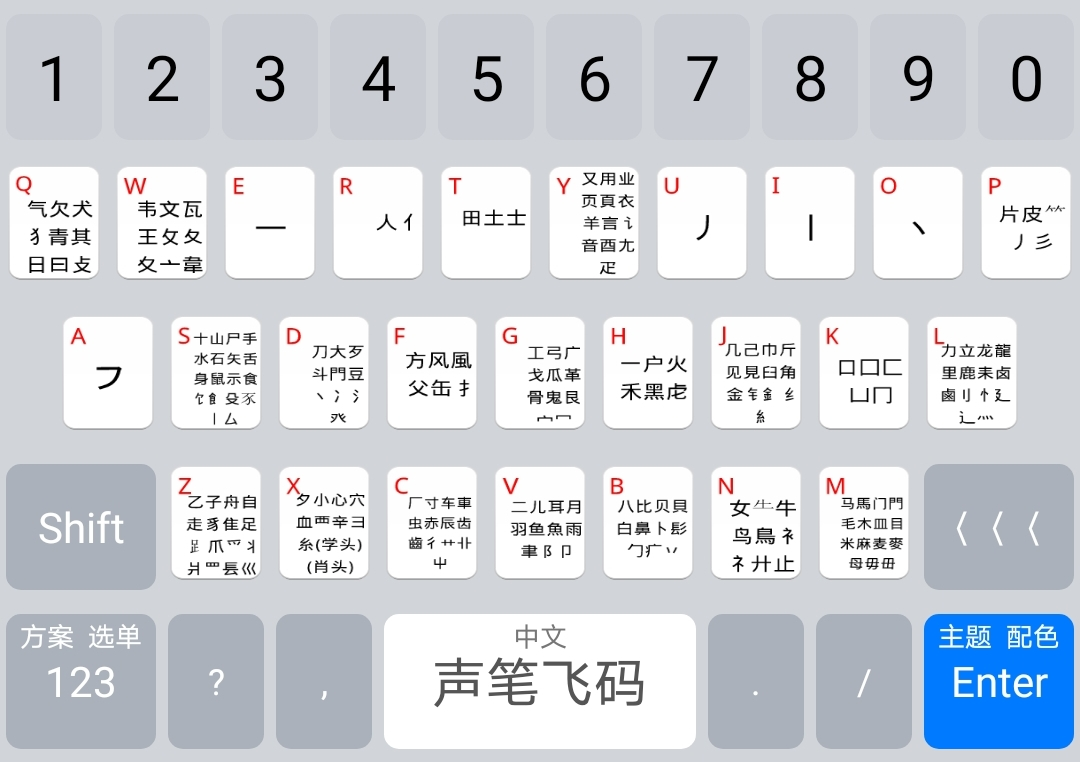
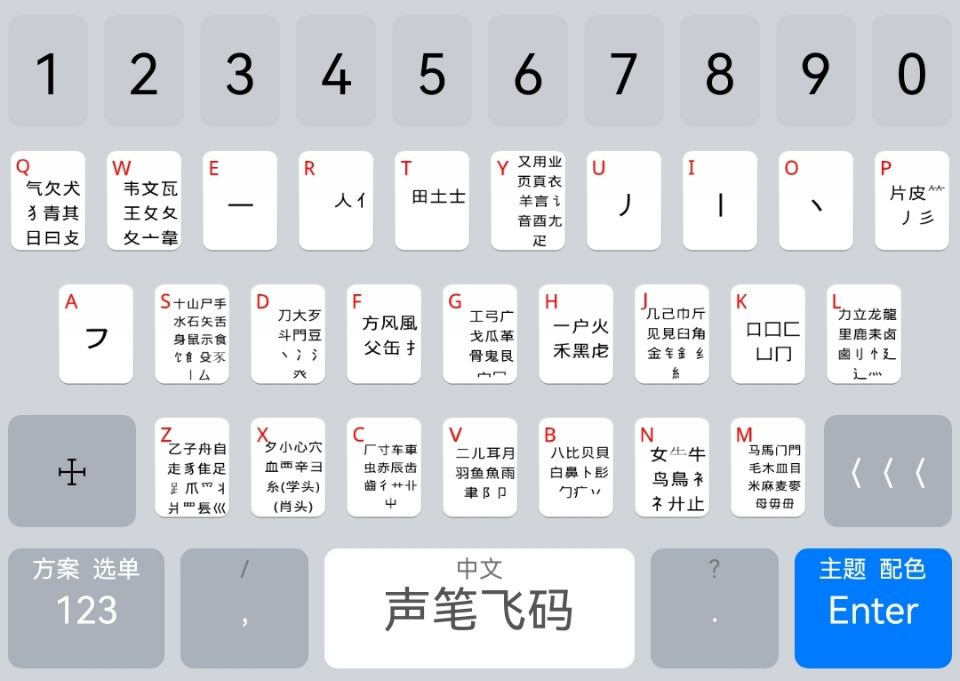
Site updated: 2021-11-20 07:57:58

diff --git a/sbpy/index.html b/sbpy/index.html
@@ -121,14 +121,21 @@ var _hmt = _hmt || [];
 
 
 
-  <meta name="description" content="声笔拼音是一种非常「奇特」的拼音输入法，它完全颠覆了人们对拼音输入法的认识，平均码长被腰斩，重码大幅度减少，翻页键很少用得着，输入效率大大提升。声笔拼音将彻底改变人们对拼音输入时重码多、效率低的刻板印象，是最佳的拼音输入法升级方案。 通常，为了在使用拼音的情况下提升输入效率，人们首先想到的可能就是采用双拼。但是，双拼的门槛还是不低，需要记住30来个韵母、3个翘舌声母和零声母的表示形式，而且仍然不能">
+  <meta name="description" content="声笔拼音是一种非常「奇特」的拼音输入法，它完全颠覆了人们对拼音输入法的认识，平均码长被腰斩，重码大幅度减少，翻页键很少用得着，输入效率大大提升。 通常，为了在使用拼音的情况下提升输入效率，人们首先想到的可能就是采用双拼。但是，双拼的门槛还是不低，需要记住30来个韵母、3个翘舌声母和零声母的表示形式，而且仍然不能解决重码多的问题。 声笔拼音另辟蹊径，以全拼为基础，进行适当的变形，只需花费比双拼小得多">
 <meta name="keywords" content="输入法, 创新, 引领, 顶屏, 顶功, 自动码长, 自动造词, 字母选重">
 <meta property="og:type" content="website">
 <meta property="og:title" content="声笔拼音">
 <meta property="og:url" content="http://sbxlm.gitee.io/sbpy/index.html">
 <meta property="og:site_name" content="声笔输入法">
-<meta property="og:description" content="声笔拼音是一种非常「奇特」的拼音输入法，它完全颠覆了人们对拼音输入法的认识，平均码长被腰斩，重码大幅度减少，翻页键很少用得着，输入效率大大提升。声笔拼音将彻底改变人们对拼音输入时重码多、效率低的刻板印象，是最佳的拼音输入法升级方案。 通常，为了在使用拼音的情况下提升输入效率，人们首先想到的可能就是采用双拼。但是，双拼的门槛还是不低，需要记住30来个韵母、3个翘舌声母和零声母的表示形式，而且仍然不能">
+<meta property="og:description" content="声笔拼音是一种非常「奇特」的拼音输入法，它完全颠覆了人们对拼音输入法的认识，平均码长被腰斩，重码大幅度减少，翻页键很少用得着，输入效率大大提升。 通常，为了在使用拼音的情况下提升输入效率，人们首先想到的可能就是采用双拼。但是，双拼的门槛还是不低，需要记住30来个韵母、3个翘舌声母和零声母的表示形式，而且仍然不能解决重码多的问题。 声笔拼音另辟蹊径，以全拼为基础，进行适当的变形，只需花费比双拼小得多">
 <meta property="og:locale" content="zh-CN">
+<meta property="og:image" content="http://sbxlm.gitee.io/images/sbpyfc.png">
+<meta property="og:image" content="http://sbxlm.gitee.io/images/sbpyzhlf.png">
+<meta property="og:image" content="http://sbxlm.gitee.io/images/sbpyzj.jpg">
+<meta property="og:image" content="http://sbxlm.gitee.io/images/image-20211120064658859.png">
+<meta property="og:image" content="http://sbxlm.gitee.io/images/image-20211120065358587.png">
+<meta property="og:image" content="http://sbxlm.gitee.io/images/image-20211120071430095.png">
+<meta property="og:image" content="http://sbxlm.gitee.io/images/image-20211120071538558.png">
 <meta property="og:image" content="http://sbxlm.gitee.io/images/sougoulizi7.png">
 <meta property="og:image" content="http://sbxlm.gitee.io/images/sougoulizi8.png">
 <meta property="og:image" content="http://sbxlm.gitee.io/images/sbpylizi1.png">
@@ -141,11 +148,11 @@ var _hmt = _hmt || [];
 <meta property="og:image" content="http://sbxlm.gitee.io/images/sbpylizi7.png">
 <meta property="og:image" content="http://sbxlm.gitee.io/images/sbpylizi8.png">
 <meta property="og:image" content="http://sbxlm.gitee.io/images/dphx.png">
-<meta property="og:updated_time" content="2021-11-14T03:53:14.048Z">
+<meta property="og:updated_time" content="2021-11-19T23:25:24.250Z">
 <meta name="twitter:card" content="summary">
 <meta name="twitter:title" content="声笔拼音">
-<meta name="twitter:description" content="声笔拼音是一种非常「奇特」的拼音输入法，它完全颠覆了人们对拼音输入法的认识，平均码长被腰斩，重码大幅度减少，翻页键很少用得着，输入效率大大提升。声笔拼音将彻底改变人们对拼音输入时重码多、效率低的刻板印象，是最佳的拼音输入法升级方案。 通常，为了在使用拼音的情况下提升输入效率，人们首先想到的可能就是采用双拼。但是，双拼的门槛还是不低，需要记住30来个韵母、3个翘舌声母和零声母的表示形式，而且仍然不能">
-<meta name="twitter:image" content="http://sbxlm.gitee.io/images/sougoulizi7.png">
+<meta name="twitter:description" content="声笔拼音是一种非常「奇特」的拼音输入法，它完全颠覆了人们对拼音输入法的认识，平均码长被腰斩，重码大幅度减少，翻页键很少用得着，输入效率大大提升。 通常，为了在使用拼音的情况下提升输入效率，人们首先想到的可能就是采用双拼。但是，双拼的门槛还是不低，需要记住30来个韵母、3个翘舌声母和零声母的表示形式，而且仍然不能解决重码多的问题。 声笔拼音另辟蹊径，以全拼为基础，进行适当的变形，只需花费比双拼小得多">
+<meta name="twitter:image" content="http://sbxlm.gitee.io/images/sbpyfc.png">
 
 
 
@@ -682,20 +689,22 @@ var _hmt = _hmt || [];
       <div class="post-body">
         
         
-          <p>声笔拼音是一种非常「奇特」的拼音输入法，它完全颠覆了人们对拼音输入法的认识，平均码长被腰斩，重码大幅度减少，翻页键很少用得着，输入效率大大提升。声笔拼音将彻底改变人们对拼音输入时重码多、效率低的刻板印象，是最佳的拼音输入法升级方案。</p>
+          <p>声笔拼音是一种非常「奇特」的拼音输入法，它完全颠覆了人们对拼音输入法的认识，平均码长被腰斩，重码大幅度减少，翻页键很少用得着，输入效率大大提升。</p>
 <p>通常，为了在使用拼音的情况下提升输入效率，人们首先想到的可能就是采用双拼。但是，双拼的门槛还是不低，需要记住30来个韵母、3个翘舌声母和零声母的表示形式，而且仍然不能解决重码多的问题。</p>
 <p>声笔拼音另辟蹊径，以全拼为基础，进行适当的变形，只需花费比双拼小得多的代价，就可以取得相当于或者高于双拼的输入效率。</p>
 <p>声笔拼音提供了两种解决方案。一种是默认的方案，它与现有的拼音输入法非常类似，都采用了智能整句模式，过渡起来很容易。另一种是，进一步演变而产生的字词型方案——声笔顶拼，它以稍高的门槛换来了更高的输入效率。</p>
 <p>值得注意的是，声笔拼音一词有广义和狭义之分。狭义的声笔拼音特指整句型方案，而广义的声笔拼音包括了整句型和字词型两种方案。读者从上下文应该容易区分出来，不要搞混淆了。</p>
-<p>本文只涉及声笔系列码中的声笔拼音，含声笔顶拼。有关声笔系列码的总体情况请参见<a href="../about/">总体介绍</a>。有关下载、安装和配置的方法，请参见<a href="../vzpz/">安装配置</a>。有关声笔系列码的发展历程，请参见<a href="../fzlc/">发展历程</a>。对于一些参见问题的解答，请参见<a href="../faq/">常见问题</a>。声笔系列码的其它输入方案详见各自的专题。</p>
+<p>声笔拼音适合什么样的人使用呢？声笔拼音是对现有拼音输入法的优化和改进，所以它适用于正在用拼音输入中文的所有人，可以仅花费极小的代价就获得高得多的中文输入效率，而不必花更多的时间和精力去学习双拼甚至五笔等。声笔拼音将彻底改变人们对拼音输入时重码多、效率低的刻板印象，是最佳的拼音输入法升级方案。</p>
+<p>如果您的拼音非常糟糕，对韵母的掌握一塌糊涂，声母也分不清平翘舌什么的，同时又想有一个简单高效的输入方案，那么强烈建议您使用声笔系列码中的<a href="../sbjm/">声笔简码</a>，它仅使用不分平翘舌的声母和五个笔画，就能取得比声笔拼音还高的输入效率。</p>
+<p>本文只涉及声笔系列码中的声笔拼音，含声笔顶拼。有关声笔系列码的总体情况请参见<a href="../about/">总体介绍</a>。有关下载、安装和配置的方法，请参见<a href="../vzpz/">安装配置</a>。有关声笔系列码的发展历程，请参见<a href="../fzlc/">发展历程</a>。对于一些常见问题的解答，请参见<a href="../faq/">常见问题</a>。声笔系列码的其它输入方案详见各自的专题。</p>
 <h2 id="1-预备知识"><a href="#1-预备知识" class="headerlink" title="1 预备知识"></a>1 预备知识</h2><p>本节介绍声笔拼音所使用的编码元素，即用汉字的什么要素来编码；编码的方法是什么；在不知道编码的时候怎么样快速反查出编码；编码在实际输入的时候是怎么运用的。</p>
 <h3 id="1-1-编码元素"><a href="#1-1-编码元素" class="headerlink" title="1.1 编码元素"></a>1.1 编码元素</h3><p>声笔拼音的编码元素为声母、韵母和笔画，具体表示方法与现行拼音输入法有一定的差异，请注意以下几点。</p>
 <ul>
 <li>用v表示零声母，即作为以a e o开头的音节在形式上的声母。例如，ai ei ou就变成了vai vei vou。</li>
 <li>不区分平、翘舌音，即省略zh ch sh中的h。例如，zhou chao shi就变成了zou cao si。</li>
 <li>前后鼻音中的n和ng都通过重复之前的元音字母来编码。例如，wan yin bang zong就变成了waa yii baa zoo。</li>
-<li>将韵母 er 合并到 e，ü 合并到 u，ê 合并到 e。例如，er 变成 ve，而 nü 变成 nu。特别注意，ü 没有像传统拼音输入法那样用 v 来代替。</li>
-<li>在声韵相拼的时候，声母 j、q、x 后接韵母 ia、ie、iao、ian、iang、iong 时，要省略 i。例如，传统拼音里的 jie qiong xiang 在声笔拼音里则变成 je qoo xaa。</li>
+<li>将韵母 er 合并到 e，ü 合并到 u，ê 合并到 e。例如，er 变成 ve，nü 变成 nu，而ê变成ve。特别注意，ü 没有像传统拼音输入法那样用 v 来代替。</li>
+<li>在声韵相拼的时候，声母 j、q、x 后接以ia、ie、io开头的韵母如 ia、ie、iao、ian、iang、iong 时，要省略 i。例如，传统拼音里的 jie qiong xiang 在声笔拼音里则变成 je qoo xaa。</li>
 <li>音节长度超过3时，则截断为3。例如，biao变成bia，而guan变成gua。</li>
 <li>在笔画方面，同其它声笔方案一样，横竖撇捺折五个笔画用eiuoa来表示，而不是传统上的12345或者hspnz。</li>
 </ul>
@@ -705,16 +714,49 @@ var _hmt = _hmt || [];
 <li>降低了学习门槛，不再需区分平翘舌和前后鼻音。虽然现有拼音输入法也可以设置模糊音，但是会影响汉字转换的准确性，而在声笔拼音中不会有这个问题。</li>
 <li>拼写形式得到了缩短。例如，zhuang变成了zua，miao变成了mia。这种对音节形式的压缩方式虽然会产生一些归并重码，但是声笔拼音可以通过直接追加笔画的方式来进行快速筛选，所以并不会成为一个问题。</li>
 </ul>
-<h3 id="1-2-编码方法"><a href="#1-2-编码方法" class="headerlink" title="1.2 编码方法"></a>1.2 编码方法</h3><p>在声笔拼音中，单字的编码规则很简单，就是拼音加笔画，全码为6码，笔画不足时重复末笔来补足。例如，「笔」的拼音为bi，追加前4个笔画后编码为biueou。再如，「将」的音节编码为jaa，追加前三个笔画后单字的编码为jaaoei。</p>
+<h3 id="1-2-编码方法"><a href="#1-2-编码方法" class="headerlink" title="1.2 编码方法"></a>1.2 编码方法</h3><p>在声笔拼音中，单字的编码规则很简单，就是拼音加笔画，全码为6码，笔画不足时重复末笔来补足。例如，「笔」的拼音为bi，追加前4个笔画后编码为biueou。又如，「将」的音节编码为jaa，追加前三个笔画后单字的编码为jaaoei。再如，「乙」的音节编码为yi，而「乙」只有一个笔画，所以要重复三次才能形成单字编码yiaaaa。</p>
 <p>对于词组的编码来说，整句型和字词型的方案是大不相同的，会在本文的后面两节详细论述。</p>
-<h3 id="1-3-反查方法"><a href="#1-3-反查方法" class="headerlink" title="1.3 反查方法"></a>1.3 反查方法</h3><h3 id="1-4-输入方法"><a href="#1-4-输入方法" class="headerlink" title="1.4 输入方法"></a>1.4 输入方法</h3><p>声笔拼音的整句型方案和字词型方案，在输入的时候，虽然都是基于相同的单字编码，但是在具体的运用上是大不相同的，以下两节就分别进行详细论述。</p>
+<h3 id="1-3-反查方法"><a href="#1-3-反查方法" class="headerlink" title="1.3 反查方法"></a>1.3 反查方法</h3><p>在输入过程中，往往会遇到不认识的字或者不会用声笔拼音编码的字词，这时反查功能就派上大用场了。如果每当这种时候都要去百度的话，那就太耽误时间了。声笔拼音提供了多种快捷的反查手段，大大加快了查找编码的速度。</p>
+<p>在不知道读音的时候直接用<code>aeuio</code>按顺序输入笔画进行反查，在不知道笔画时用a引导拼音反查（注意零声母要用v）。以下是几个反查的例子。</p>
+<p><img src="/images/sbpyfc.png" alt="笔画拼音反查"></p>
+<p>另外，通过i引导的拼音还支持用字海两分法来进行反查， 支持查找八万多汉字，一般用于难读而易于两分的字进行反查或者GBK以外字的输入。GBK以外的字，声笔拼音不提供正常编码，不能按正常方式输入，只能在两分查找到后选择输入。下面是字海两分法查找的例子。</p>
+<p><img src="/images/sbpyzhlf.png" alt="字海两分反查"></p>
+<h3 id="1-4-助记方法"><a href="#1-4-助记方法" class="headerlink" title="1.4 助记方法"></a>1.4 助记方法</h3><p>虽然声笔拼音已经简单，基本上没有什么学习门槛，但是为了进一步减轻初学者的记忆负担，在手机上提供了助记皮肤，可以长按<code>N</code>键打开或者关闭助记。在打开时，给出了笔画和零声母用键（<code>aeuio</code>和<code>v</code>）的提示，如下图所示。如果是在电脑上，则可以把该图放在电脑桌面上，在打字的时候帮助记忆，一般几分钟就记住了。</p>
+<p><img src="/images/sbpyzj.jpg" alt="声笔拼音助记"></p>
+<h3 id="1-5-输入方法"><a href="#1-5-输入方法" class="headerlink" title="1.5 输入方法"></a>1.5 输入方法</h3><p>声笔拼音的整句型方案和字词型方案，在输入的时候，虽然都是基于相同的单字编码，但是在具体的运用上是大不相同的。读者先通过以下练习巩固一下预备知识。在接下来的两节会分别对字词型和整句型的输入方法进行详细论述，这里就不再赘述。</p>
 <blockquote>
-<p><em>预备知识习题：</em></p>
-<ol>
-<li>请给出下列汉语拼音音节在声笔拼音中的编码：</li>
-<li>请给出下列汉字在声笔拼音中的笔画表示形式：</li>
-<li>请给出下列汉字在声笔拼音中的单字编码形式：</li>
-<li>请用纯笔画反查出下列汉字在声笔拼音中编码：</li>
+<h4 id="预备知识习题："><a href="#预备知识习题：" class="headerlink" title="预备知识习题："></a><em>预备知识习题：</em></h4><ol>
+<li>请给出下列汉语拼音音节在声笔拼音中的编码<ul>
+<li>ang tin jiao qiong</li>
+<li>er lue lü kuai</li>
+<li>nu chuang qiu jiang</li>
+</ul>
+</li>
+<li>请给出下列汉字的前四笔在声笔拼音中的编码<ul>
+<li>床前明月光</li>
+<li>疑是地上霜</li>
+</ul>
+</li>
+<li>请给出下列汉字在声笔拼音中的单字编码形式<ul>
+<li>举头望明月</li>
+<li>低头思故乡</li>
+</ul>
+</li>
+<li>请用纯笔画反查出下列汉字在声笔拼音中的编码<ul>
+<li>人之初</li>
+<li>性本善</li>
+</ul>
+</li>
+<li>请用常规拼音反查下列汉字在声笔拼音中的编码<ul>
+<li>太极八卦</li>
+<li>阴阳五行</li>
+</ul>
+</li>
+<li>请用字海二分法输入下列汉字<ul>
+<li>皕𩇴</li>
+<li>𠓗𠔣</li>
+</ul>
+</li>
 </ol>
 </blockquote>
 <h2 id="2-声笔拼音"><a href="#2-声笔拼音" class="headerlink" title="2 声笔拼音"></a>2 声笔拼音</h2><p>注意，本节讲的声笔拼音是狭义的，即特指整句型的方案。</p>
@@ -726,8 +768,21 @@ var _hmt = _hmt || [];
 <li>回溯修改麻烦</li>
 </ul>
 <p>这些问题在声笔拼音中都得到了很好的解决。声笔拼音明确了音节界线，简化了拼写形式，降低了学习难度，还能能够直接用笔画筛选重码。</p>
-<p>虽然名称是智能整句，但并不是必须要以整句为单位进行输入，只是说可以以整句为单位输入而已。具有讽刺意义的是，人们在使用智能整句输入法的时候，绝大多数人都是以字词为单位输入，而不是以句子为单位输入的。为什么会发生这种奇怪的现象呢？有关这个问题，请参见<a href="!--0--">拼音输入宝典</a>一文。</p>
-<h3 id="2-1-单字的输入"><a href="#2-1-单字的输入" class="headerlink" title="2.1 单字的输入"></a>2.1 单字的输入</h3><h3 id="2-2-二字词的输入"><a href="#2-2-二字词的输入" class="headerlink" title="2.2 二字词的输入"></a>2.2 二字词的输入</h3><h3 id="2-3-三字词的输入"><a href="#2-3-三字词的输入" class="headerlink" title="2.3 三字词的输入"></a>2.3 三字词的输入</h3><h3 id="2-4-多字词的输入"><a href="#2-4-多字词的输入" class="headerlink" title="2.4 多字词的输入"></a>2.4 多字词的输入</h3><h3 id="2-5-短语和句子的输入"><a href="#2-5-短语和句子的输入" class="headerlink" title="2.5 短语和句子的输入"></a>2.5 短语和句子的输入</h3><h3 id="1-1-音节歧义"><a href="#1-1-音节歧义" class="headerlink" title="1.1 音节歧义"></a>1.1 音节歧义</h3><p>拼音输入法面临的第一个问题就是音节划分歧义。例如，在全拼的时候<code>xian</code>还可能是<code>xi&#39;an</code>；在简拼的时候<code>dzay</code>可能是<code>d&#39;za&#39;y</code>，也可能是<code>d&#39;z&#39;a&#39;y</code>。为了明确音节界线，在电脑上需要加隔音符<code>&#39;</code>，在手机上则需要用专门的分词键。然而用户在使用时，往往不清楚何时是可以省略的，有可能忘记加隔音符或者分词键，从而产生输入错误。</p>
+<p>虽然名称是智能整句，但并不是必须要以整句为单位进行输入，只是说可以以整句为单位输入而已。具有讽刺意义的是，人们在使用智能整句输入法的时候，绝大多数人都是以字词为单位输入，而不是以句子为单位输入的。为什么会发生这种奇怪的现象呢？有关这个问题，还可以参见<a href="/2021/07/01/拼音输入宝典/">拼音输入宝典</a>一文。注意，这里的声笔拼音与《拼音输入宝典》中提到的声笔拼音相比，已经有了一些变化，做了进一步的优化。若有差异，请以此处的为准。</p>
+<p>下面将按输入单位从小到大的顺序来讲解声笔拼音的输入方法。</p>
+<h3 id="2-1-单字的输入"><a href="#2-1-单字的输入" class="headerlink" title="2.1 单字的输入"></a>2.1 单字的输入</h3><p>在中文里，有数以万计的汉字，而拼音音节只有400来个，所以同音字是非常多的。故而，单字的输入，对于传统拼音输入法来说，是一个非常头痛和痛苦的事情，可以说是想尽了一切办法企图来解决这个问题。</p>
+<p>搜狗和百度之类的拼音输入法利用巨型互联网词库，在输入一般性的文本时，可以大大减少对单字输入的依赖。但是，单字的输入始终是不可避免的，在有的场合还用得比较多。这时，绝大多数人是通过翻页查找的方式来定位和选择同音字。在遇到输入同音现象严重的非常见字时，往往需要翻页数次，每页都要查看多个选项，严重影响输入效率。少数有经验的人，可能知道通过以词定字的方式来输入单字，或者通过加TAB后追加笔画或者部件来筛选重码字。然而，以词定字只是一种权宜之计，不是普适性的，有时候根本想不到适合的词。TAB后加码的方式是具有普适性的，但是操作很不方便，而且还增加了码长。另外，由于用得很少，偶而使用的时候，显得很生疏，无法做到快速操作。</p>
+<p>例如，在用搜狗拼音输入「疫」字时，可以在输入yi以后按TAB键再输入笔画dhpn，「疫」字就出现在当页的选项中了。</p>
+<p><img src="/images/image-20211120064658859.png" alt="image-20211120064658859"></p>
+<p>现在，对比一下声笔拼音在输入「疫」字时的情况。在输入yi后，无需难操作的TAB而是直接输入笔画oeu，「疫」字就出现在当页选项中。而且，在声笔拼音中，笔画的使用是非常频繁的，用户容易对aeuio表示的笔画形成条件反射，从而加快操作速度。</p>
+<p><img src="/images/image-20211120065358587.png" alt="image-20211120065358587"></p>
+<p>再如，搜狗拼音输入「幢」字时，在输入zhuang后按TAB再输入该字的首笔竖，可以把它定位在首页。然而，zhuang这个音节有6个字母之多，加上额外的TAB键，码长非常不理想。</p>
+<p><img src="/images/image-20211120071430095.png" alt="image-20211120071430095"></p>
+<p>用声笔拼音输入「幢」字的话，只需在zua之后直接追加该字的首笔竖，就可以把它定位在首页。可见，从码长上来说，节约了四键，效率的提升是极为显著的。</p>
+<p><img src="/images/image-20211120071538558.png" alt="image-20211120071538558"></p>
+<h3 id="2-2-二字词的输入"><a href="#2-2-二字词的输入" class="headerlink" title="2.2 二字词的输入"></a>2.2 二字词的输入</h3><p>二字词在现代中文里是最常见的。</p>
+<h3 id="2-3-三字词的输入"><a href="#2-3-三字词的输入" class="headerlink" title="2.3 三字词的输入"></a>2.3 三字词的输入</h3><h3 id="2-4-多字词的输入"><a href="#2-4-多字词的输入" class="headerlink" title="2.4 多字词的输入"></a>2.4 多字词的输入</h3><h3 id="2-5-语句的输入"><a href="#2-5-语句的输入" class="headerlink" title="2.5 语句的输入"></a>2.5 语句的输入</h3><p>在这里，语句一词有短语和句子两层含义。</p>
+<h3 id="1-1-音节歧义"><a href="#1-1-音节歧义" class="headerlink" title="1.1 音节歧义"></a>1.1 音节歧义</h3><p>拼音输入法面临的第一个问题就是音节划分歧义。例如，在全拼的时候<code>xian</code>还可能是<code>xi&#39;an</code>；在简拼的时候<code>dzay</code>可能是<code>d&#39;za&#39;y</code>，也可能是<code>d&#39;z&#39;a&#39;y</code>。为了明确音节界线，在电脑上需要加隔音符<code>&#39;</code>，在手机上则需要用专门的分词键。然而用户在使用时，往往不清楚何时是可以省略的，有可能忘记加隔音符或者分词键，从而产生输入错误。</p>
 <p><img src="/images/sougoulizi7.png" alt="搜狗例子7"></p>
 <p>如果上例采用混合显示也基本上能解决问题的话，那么下例就完全不管用了。这两例都是用的搜狗拼音，图中上面的是加了分隔符的，下面的是没有加的。没有加分隔符时，简拼就失效了。</p>
 <p><img src="/images/sougoulizi8.png" alt="搜狗例子8"></p>
@@ -1150,7 +1205,7 @@ var _hmt = _hmt || [];
             
 
             
-              <div class="post-toc-content"><ol class="nav"><li class="nav-item nav-level-2"><a class="nav-link" href="#1-预备知识"><span class="nav-text">1 预备知识</span></a><ol class="nav-child"><li class="nav-item nav-level-3"><a class="nav-link" href="#1-1-编码元素"><span class="nav-text">1.1 编码元素</span></a></li><li class="nav-item nav-level-3"><a class="nav-link" href="#1-2-编码方法"><span class="nav-text">1.2 编码方法</span></a></li><li class="nav-item nav-level-3"><a class="nav-link" href="#1-3-反查方法"><span class="nav-text">1.3 反查方法</span></a></li><li class="nav-item nav-level-3"><a class="nav-link" href="#1-4-输入方法"><span class="nav-text">1.4 输入方法</span></a></li></ol></li><li class="nav-item nav-level-2"><a class="nav-link" href="#2-声笔拼音"><span class="nav-text">2 声笔拼音</span></a><ol class="nav-child"><li class="nav-item nav-level-3"><a class="nav-link" href="#2-1-单字的输入"><span class="nav-text">2.1 单字的输入</span></a></li><li class="nav-item nav-level-3"><a class="nav-link" href="#2-2-二字词的输入"><span class="nav-text">2.2 二字词的输入</span></a></li><li class="nav-item nav-level-3"><a class="nav-link" href="#2-3-三字词的输入"><span class="nav-text">2.3 三字词的输入</span></a></li><li class="nav-item nav-level-3"><a class="nav-link" href="#2-4-多字词的输入"><span class="nav-text">2.4 多字词的输入</span></a></li><li class="nav-item nav-level-3"><a class="nav-link" href="#2-5-短语和句子的输入"><span class="nav-text">2.5 短语和句子的输入</span></a></li><li class="nav-item nav-level-3"><a class="nav-link" href="#1-1-音节歧义"><span class="nav-text">1.1 音节歧义</span></a></li></ol></li><li class="nav-item nav-level-2"><a class="nav-link" href="#二、声笔顶拼"><span class="nav-text">二、声笔顶拼</span></a></li></ol></div>
+              <div class="post-toc-content"><ol class="nav"><li class="nav-item nav-level-2"><a class="nav-link" href="#1-预备知识"><span class="nav-text">1 预备知识</span></a><ol class="nav-child"><li class="nav-item nav-level-3"><a class="nav-link" href="#1-1-编码元素"><span class="nav-text">1.1 编码元素</span></a></li><li class="nav-item nav-level-3"><a class="nav-link" href="#1-2-编码方法"><span class="nav-text">1.2 编码方法</span></a></li><li class="nav-item nav-level-3"><a class="nav-link" href="#1-3-反查方法"><span class="nav-text">1.3 反查方法</span></a></li><li class="nav-item nav-level-3"><a class="nav-link" href="#1-4-助记方法"><span class="nav-text">1.4 助记方法</span></a></li><li class="nav-item nav-level-3"><a class="nav-link" href="#1-5-输入方法"><span class="nav-text">1.5 输入方法</span></a><ol class="nav-child"><li class="nav-item nav-level-4"><a class="nav-link" href="#预备知识习题："><span class="nav-text">预备知识习题：</span></a></li></ol></li></ol></li><li class="nav-item nav-level-2"><a class="nav-link" href="#2-声笔拼音"><span class="nav-text">2 声笔拼音</span></a><ol class="nav-child"><li class="nav-item nav-level-3"><a class="nav-link" href="#2-1-单字的输入"><span class="nav-text">2.1 单字的输入</span></a></li><li class="nav-item nav-level-3"><a class="nav-link" href="#2-2-二字词的输入"><span class="nav-text">2.2 二字词的输入</span></a></li><li class="nav-item nav-level-3"><a class="nav-link" href="#2-3-三字词的输入"><span class="nav-text">2.3 三字词的输入</span></a></li><li class="nav-item nav-level-3"><a class="nav-link" href="#2-4-多字词的输入"><span class="nav-text">2.4 多字词的输入</span></a></li><li class="nav-item nav-level-3"><a class="nav-link" href="#2-5-语句的输入"><span class="nav-text">2.5 语句的输入</span></a></li><li class="nav-item nav-level-3"><a class="nav-link" href="#1-1-音节歧义"><span class="nav-text">1.1 音节歧义</span></a></li></ol></li><li class="nav-item nav-level-2"><a class="nav-link" href="#二、声笔顶拼"><span class="nav-text">二、声笔顶拼</span></a></li></ol></div>
             
 
           </div>

diff --git a/fzlc/index.html b/fzlc/index.html
@@ -121,18 +121,18 @@ var _hmt = _hmt || [];
 
 
 
-  <meta name="description" content="一、基于RIME的声笔系列码发展历程历程 20211113: 1.为安卓增加30键的磐石主题；2.微调安卓版的默认26键主题，使其与30键的主题更加一致；3.修正的飞码数选词不当的BUG，将数选词单独发布。 20211108: 1.声笔系列所有方案增加入简出繁支持；2.修改安卓版默认皮肤底栏，以减少误触；3.为声笔飞码（含飞讯）增加数选简词。 20211106: 进一步优化声笔拼音，采用与声笔简码">
+  <meta name="description" content="一、基于RIME的声笔系列码发展历程历程 20211118: 1.优化声笔安卓版皮肤，增加间距以减少误触；2.增加一个29键的磐石主题作为备选。 20211116: 1.按照词频优化为词库中的17万无频词；2.声笔拼音中增加无韵母的「嗯」「呒」「唔」编码。 20211113: 1.为安卓增加30键的磐石主题；2.微调安卓版的默认26键主题，使其与30键的主题更加一致；3.修正的飞码数选词不当的BU">
 <meta name="keywords" content="输入法, 创新, 引领, 顶屏, 顶功, 自动码长, 自动造词, 字母选重">
 <meta property="og:type" content="website">
 <meta property="og:title" content="发展历程">
 <meta property="og:url" content="http://sbxlm.gitee.io/fzlc/index.html">
 <meta property="og:site_name" content="声笔输入法">
-<meta property="og:description" content="一、基于RIME的声笔系列码发展历程历程 20211113: 1.为安卓增加30键的磐石主题；2.微调安卓版的默认26键主题，使其与30键的主题更加一致；3.修正的飞码数选词不当的BUG，将数选词单独发布。 20211108: 1.声笔系列所有方案增加入简出繁支持；2.修改安卓版默认皮肤底栏，以减少误触；3.为声笔飞码（含飞讯）增加数选简词。 20211106: 进一步优化声笔拼音，采用与声笔简码">
+<meta property="og:description" content="一、基于RIME的声笔系列码发展历程历程 20211118: 1.优化声笔安卓版皮肤，增加间距以减少误触；2.增加一个29键的磐石主题作为备选。 20211116: 1.按照词频优化为词库中的17万无频词；2.声笔拼音中增加无韵母的「嗯」「呒」「唔」编码。 20211113: 1.为安卓增加30键的磐石主题；2.微调安卓版的默认26键主题，使其与30键的主题更加一致；3.修正的飞码数选词不当的BU">
 <meta property="og:locale" content="zh-CN">
-<meta property="og:updated_time" content="2021-11-13T00:36:37.757Z">
+<meta property="og:updated_time" content="2021-11-19T21:02:22.765Z">
 <meta name="twitter:card" content="summary">
 <meta name="twitter:title" content="发展历程">
-<meta name="twitter:description" content="一、基于RIME的声笔系列码发展历程历程 20211113: 1.为安卓增加30键的磐石主题；2.微调安卓版的默认26键主题，使其与30键的主题更加一致；3.修正的飞码数选词不当的BUG，将数选词单独发布。 20211108: 1.声笔系列所有方案增加入简出繁支持；2.修改安卓版默认皮肤底栏，以减少误触；3.为声笔飞码（含飞讯）增加数选简词。 20211106: 进一步优化声笔拼音，采用与声笔简码">
+<meta name="twitter:description" content="一、基于RIME的声笔系列码发展历程历程 20211118: 1.优化声笔安卓版皮肤，增加间距以减少误触；2.增加一个29键的磐石主题作为备选。 20211116: 1.按照词频优化为词库中的17万无频词；2.声笔拼音中增加无韵母的「嗯」「呒」「唔」编码。 20211113: 1.为安卓增加30键的磐石主题；2.微调安卓版的默认26键主题，使其与30键的主题更加一致；3.修正的飞码数选词不当的BU">
 
 
 
@@ -670,6 +670,8 @@ var _hmt = _hmt || [];
         
         
           <h2 id="一、基于RIME的声笔系列码发展历程历程"><a href="#一、基于RIME的声笔系列码发展历程历程" class="headerlink" title="一、基于RIME的声笔系列码发展历程历程"></a>一、基于RIME的声笔系列码发展历程历程</h2><ul>
+<li>20211118: 1.优化声笔安卓版皮肤，增加间距以减少误触；2.增加一个29键的磐石主题作为备选。</li>
+<li>20211116: 1.按照词频优化为词库中的17万无频词；2.声笔拼音中增加无韵母的「嗯」「呒」「唔」编码。</li>
 <li>20211113: 1.为安卓增加30键的磐石主题；2.微调安卓版的默认26键主题，使其与30键的主题更加一致；3.修正的飞码数选词不当的BUG，将数选词单独发布。</li>
 <li>20211108: 1.声笔系列所有方案增加入简出繁支持；2.修改安卓版默认皮肤底栏，以减少误触；3.为声笔飞码（含飞讯）增加数选简词。</li>
 <li>20211106: 进一步优化声笔拼音，采用与声笔简码一样的模式，变得更加易用、灵活，效率也更高。</li>
